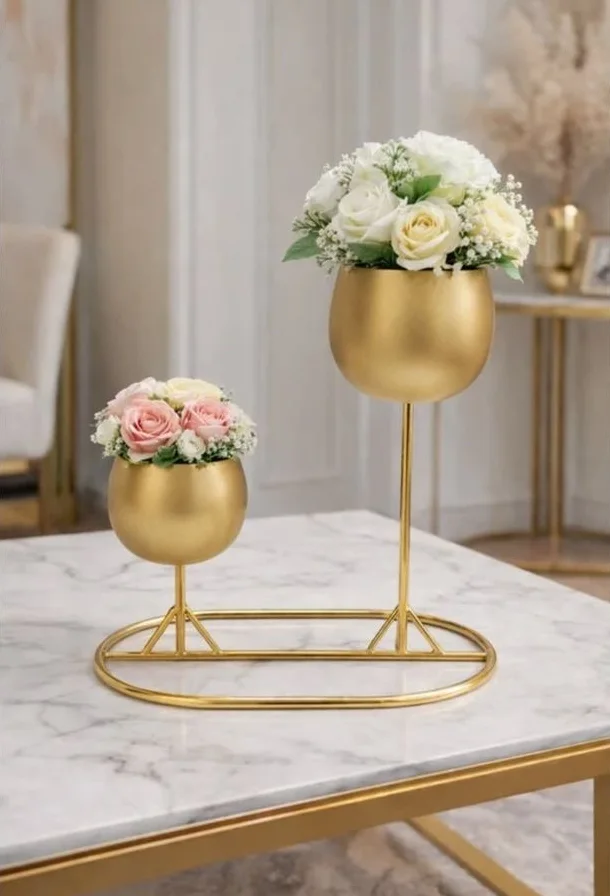
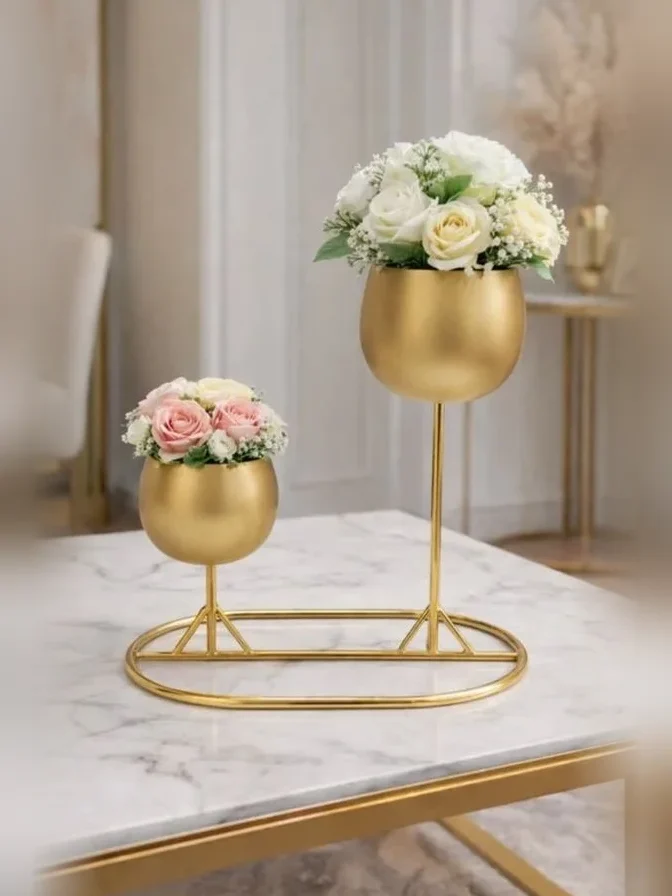
Show product photos uncropped: 3:4 frames, fitted photos, two photos padded to 3:4

diff --git a/src/app/collections/page.tsx b/src/app/collections/page.tsx
@@ -7,6 +7,7 @@ import { Reveal } from "@/components/ui/Reveal";
 import { PageHero } from "@/components/layout/PageHero";
 import { ArrowRightIcon } from "@/components/icons";
 import { PriceTag } from "@/components/products/PriceTag";
+import { ProductPhoto } from "@/components/products/ProductPhoto";
 import { WhatsAppButton } from "@/components/ui/WhatsApp";
 import { QuoteCta } from "@/components/home/QuoteCta";
 import { FaqSection, supplyFaqs } from "@/components/seo/FaqSection";
@@ -80,16 +81,15 @@ export default function CollectionsPage() {
                       <Link
                         href={`/products/${lead.slug}`}
                         aria-label={`View ${lead.name}`}
-                        className="group reveal-media relative block aspect-[4/5] overflow-hidden rounded-[1.75rem] bg-lime-soft shadow-card"
+                        className="group reveal-media relative block aspect-[3/4] overflow-hidden rounded-[1.75rem] bg-lime-soft shadow-card"
                       >
                         <span className="reveal-media-img absolute inset-0 block">
-                          <Image
+                          <ProductPhoto
                             src={lead.image}
                             alt={lead.imageAlt}
-                            fill
                             priority={ci === 0}
                             sizes="(min-width: 1024px) 40vw, 92vw"
-                            className="object-cover transition-transform duration-[1200ms] ease-[var(--ease-out-soft)] group-hover:scale-[1.05]"
+                            className="transition-transform duration-[1200ms] ease-[var(--ease-out-soft)] group-hover:scale-[1.04]"
                           />
                         </span>
                         <span className="absolute left-5 top-5 rounded-pill bg-cream-soft px-4 py-1.5 font-display text-[1rem] text-navy shadow-soft">
@@ -111,14 +111,13 @@ export default function CollectionsPage() {
                           <Link
                             href={`/products/${p.slug}`}
                             aria-label={`View ${p.name}`}
-                            className="group relative block aspect-square overflow-hidden rounded-[1.25rem] bg-lime-soft shadow-soft"
+                            className="group relative block aspect-[3/4] overflow-hidden rounded-[1.25rem] bg-lime-soft shadow-soft"
                           >
-                            <Image
+                            <ProductPhoto
                               src={p.image}
                               alt=""
-                              fill
                               sizes="(min-width: 1024px) 20vw, 46vw"
-                              className="object-cover transition-transform duration-700 ease-[var(--ease-out-soft)] group-hover:scale-[1.08]"
+                              className="transition-transform duration-700 ease-[var(--ease-out-soft)] group-hover:scale-[1.05]"
                             />
                           </Link>
                         </Reveal>

diff --git a/src/components/products/FeaturedCarousel.tsx b/src/components/products/FeaturedCarousel.tsx
@@ -1,6 +1,5 @@
 "use client";
 
-import Image from "next/image";
 import Link from "next/link";
 import {
   useCallback,
@@ -12,6 +11,7 @@ import {
 import { cn } from "@/lib/cn";
 import { ArrowRightIcon } from "@/components/icons";
 import { PriceTag } from "@/components/products/PriceTag";
+import { ProductPhoto } from "@/components/products/ProductPhoto";
 import type { Product } from "@/lib/products";
 
 const INTERVAL_MS = 3200;
@@ -195,17 +195,15 @@ export function FeaturedCarousel({ products }: { products: Product[] }) {
                 >
                   {/* Wipes open when the carousel scrolls into view; first three stagger. */}
                   <div
-                    className="reveal-media relative aspect-[4/5] overflow-hidden rounded-[1.5rem] bg-lime-soft shadow-soft group-hover:shadow-lift"
+                    className="reveal-media relative aspect-[3/4] overflow-hidden rounded-[1.5rem] bg-lime-soft shadow-soft group-hover:shadow-lift"
                     style={{ "--d": `${Math.min(i, 3) * 140}ms` } as React.CSSProperties}
                   >
-                    <span className="reveal-media-img absolute inset-0 block">
-                      <Image
+                    <span className="reveal-media-img pointer-events-none absolute inset-0 block select-none">
+                      <ProductPhoto
                         src={product.image}
                         alt={isCopy ? "" : product.imageAlt}
-                        fill
-                        draggable={false}
                         sizes="(min-width: 1024px) 30vw, (min-width: 640px) 46vw, 84vw"
-                        className="object-cover transition-transform duration-[1200ms] ease-[var(--ease-out-soft)] group-hover:scale-[1.06]"
+                        className="transition-transform duration-[1200ms] ease-[var(--ease-out-soft)] group-hover:scale-[1.04]"
                       />
                     </span>
 

diff --git a/src/app/products/[slug]/page.tsx b/src/app/products/[slug]/page.tsx
@@ -1,5 +1,4 @@
 import type { Metadata } from "next";
-import Image from "next/image";
 import Link from "next/link";
 import { notFound } from "next/navigation";
 import { Container } from "@/components/ui/Container";
@@ -8,6 +7,7 @@ import { ButtonLink } from "@/components/ui/Button";
 import { Eyebrow, SectionHeading } from "@/components/ui/SectionHeading";
 import { ProductCard } from "@/components/products/ProductCard";
 import { PriceTag } from "@/components/products/PriceTag";
+import { ProductPhoto } from "@/components/products/ProductPhoto";
 import { CheckIcon, ChevronRightIcon } from "@/components/icons";
 import { WhatsAppButton } from "@/components/ui/WhatsApp";
 import { products, relatedProducts } from "@/lib/products";
@@ -91,15 +91,13 @@ export default async function ProductPage({ params }: Params) {
 
             <div className="grid items-center gap-[clamp(2rem,5vw,4rem)] lg:grid-cols-2">
               <div
-                className={`relative order-first aspect-square max-h-[32rem] w-full overflow-hidden rounded-hero lg:order-last ${product.tint}`}
+                className={`relative order-first mx-auto aspect-[3/4] w-full max-w-[28rem] overflow-hidden rounded-hero lg:order-last ${product.tint}`}
               >
-                <Image
+                <ProductPhoto
                   src={product.image}
                   alt={product.imageAlt}
-                  fill
                   priority
-                  sizes="(min-width: 1024px) 42vw, 92vw"
-                  className="object-cover"
+                  sizes="(min-width: 1024px) 28rem, 92vw"
                 />
               </div>
 

diff --git a/src/components/products/ProductCard.tsx b/src/components/products/ProductCard.tsx
@@ -1,8 +1,8 @@
-import Image from "next/image";
 import Link from "next/link";
 import { cn } from "@/lib/cn";
 import { ArrowRightIcon } from "@/components/icons";
 import { PriceTag } from "@/components/products/PriceTag";
+import { ProductPhoto } from "@/components/products/ProductPhoto";
 import type { Product } from "@/lib/products";
 
 export function ProductCard({
@@ -30,17 +30,16 @@ export function ProductCard({
         {/* ── Product photo ─────────────────────────────────────────── */}
         <div
           className={cn(
-            "relative aspect-square overflow-hidden",
+            "relative aspect-[3/4] overflow-hidden",
             product.tint
           )}
         >
-          <Image
+          <ProductPhoto
             src={product.image}
             alt={product.imageAlt}
-            fill
             priority={priority}
             sizes={sizes}
-            className="object-cover object-center transition-transform duration-[900ms] ease-[var(--ease-out-soft)] group-hover:scale-[1.05] group-focus-within:scale-[1.05]"
+            className="transition-transform duration-[900ms] ease-[var(--ease-out-soft)] group-hover:scale-[1.04] group-focus-within:scale-[1.04]"
           />
 
           <PriceTag

diff --git a/src/components/home/TrustPanel.tsx b/src/components/home/TrustPanel.tsx
@@ -1,5 +1,5 @@
-import Image from "next/image";
 import Link from "next/link";
+import { ProductPhoto } from "@/components/products/ProductPhoto";
 import { Container } from "@/components/ui/Container";
 import { Reveal } from "@/components/ui/Reveal";
 import { ArrowRightIcon, CheckIcon, SparkleIcon, WhatsAppIcon } from "@/components/icons";
@@ -46,14 +46,13 @@ function Photo({
         className="group relative block"
         aria-label={`${product.name}, ${product.priceLabel}`}
       >
-        <span className="reveal-media relative block aspect-square overflow-hidden rounded-[1.5rem] bg-surface">
+        <span className="reveal-media relative block aspect-[3/4] overflow-hidden rounded-[1.5rem] bg-surface">
           <span className="reveal-media-img absolute inset-0 block">
-            <Image
+            <ProductPhoto
               src={product.image}
               alt={product.imageAlt}
-              fill
               sizes="(min-width: 1024px) 22vw, 45vw"
-              className="object-cover transition-transform duration-[1200ms] ease-[var(--ease-out-soft)] group-hover:scale-[1.05]"
+              className="transition-transform duration-[1200ms] ease-[var(--ease-out-soft)] group-hover:scale-[1.04]"
             />
           </span>
         </span>

diff --git a/src/components/products/ProductPhoto.tsx b/src/components/products/ProductPhoto.tsx
@@ -1,0 +1,47 @@
+import Image from "next/image";
+import { cn } from "@/lib/cn";
+
+/**
+ * Product photo that is never cropped. The photo is fitted inside its frame
+ * (`object-contain`), and any leftover space is filled with a blurred,
+ * enlarged copy of the same photo so the frame never shows flat bands.
+ *
+ * Both layers use the same `src` and `sizes`, so the browser downloads the
+ * file once. Place inside a `relative` frame with a fixed aspect ratio.
+ */
+export function ProductPhoto({
+  src,
+  alt,
+  sizes,
+  priority = false,
+  className,
+}: {
+  src: string;
+  alt: string;
+  sizes: string;
+  priority?: boolean;
+  /** Classes for the sharp photo layer, e.g. hover zoom. */
+  className?: string;
+}) {
+  return (
+    <>
+      <Image
+        src={src}
+        alt=""
+        aria-hidden
+        fill
+        sizes={sizes}
+        priority={priority}
+        className="scale-110 object-cover blur-2xl"
+      />
+      <Image
+        src={src}
+        alt={alt}
+        fill
+        sizes={sizes}
+        priority={priority}
+        className={cn("object-contain object-center", className)}
+      />
+    </>
+  );
+}

diff --git a/src/components/home/QuoteCta.tsx b/src/components/home/QuoteCta.tsx
@@ -1,5 +1,5 @@
-import Image from "next/image";
 import Link from "next/link";
+import { ProductPhoto } from "@/components/products/ProductPhoto";
 import { Container } from "@/components/ui/Container";
 import { Reveal } from "@/components/ui/Reveal";
 import { ButtonLink } from "@/components/ui/Button";
@@ -91,12 +91,10 @@ export function QuoteCta() {
                       className="float-gentle relative aspect-[3/4] overflow-hidden rounded-[1.25rem] border-[5px] border-cream-soft bg-cream-soft shadow-lift"
                       style={{ animationDelay: `${i * 1.2}s` }}
                     >
-                      <Image
+                      <ProductPhoto
                         src={p.image}
                         alt=""
-                        fill
                         sizes="(min-width: 1024px) 16rem, 44vw"
-                        className="object-cover"
                       />
                     </div>
                   </Reveal>
